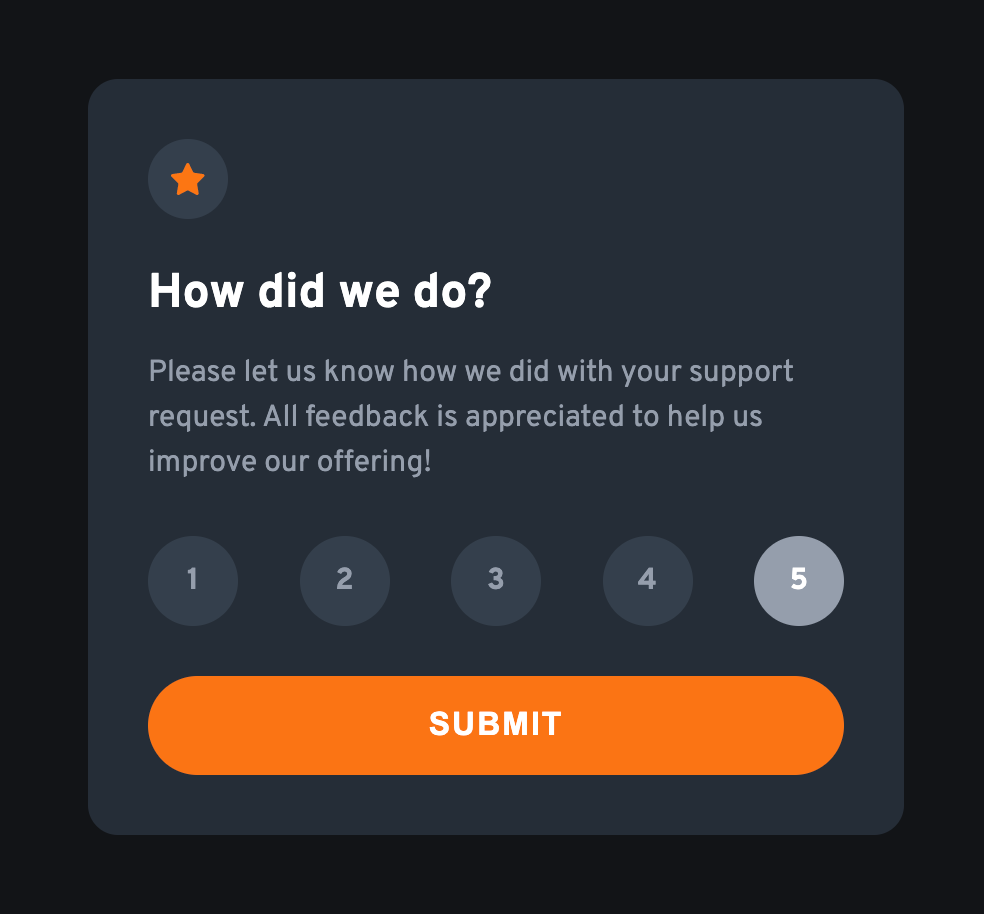
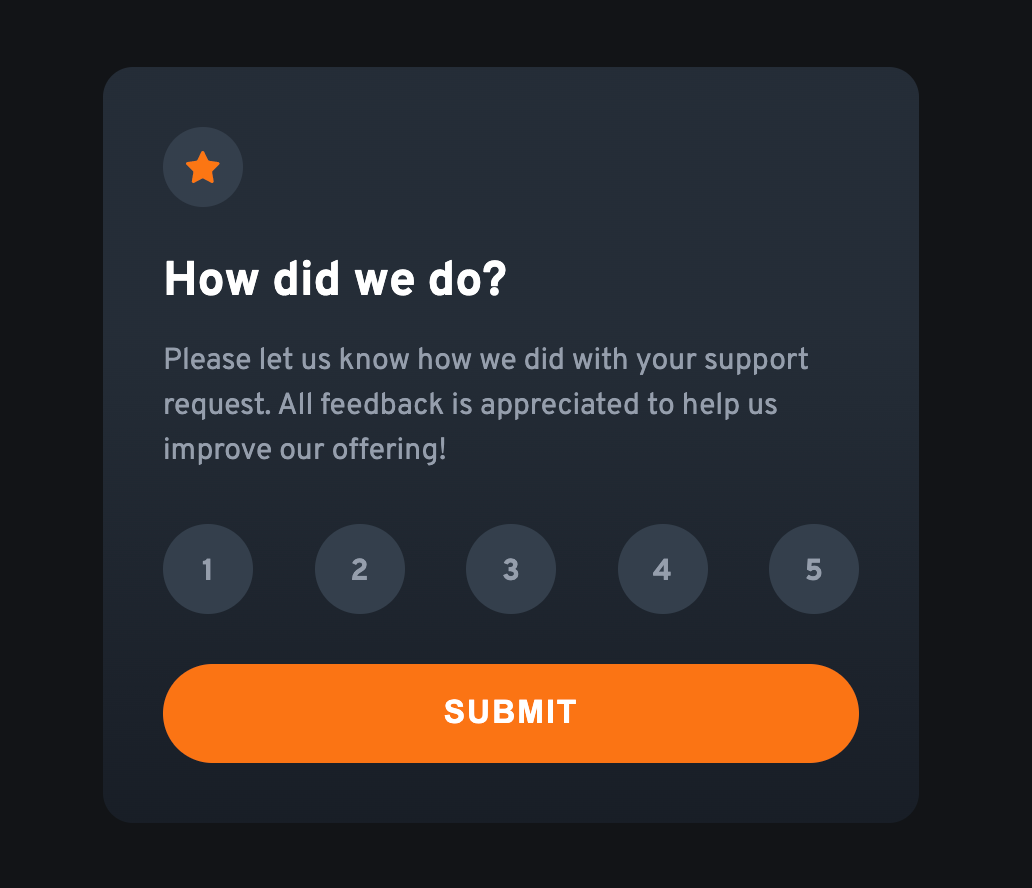
Updating component

diff --git a/styles/styles.css b/styles/styles.css
@@ -5,7 +5,6 @@
     --color-medium-grey: hsl(216, 12%, 54%);
     --color-dark-blue: hsl(213, 19%, 18%);
     --color-very-dark-blue: hsl(216, 12%, 8%);
-
 }
 
 @font-face {
@@ -26,13 +25,28 @@
         url('../fonts/overpass-700.woff') format('woff');
 }
 
+@keyframes fadeIn {
+    0% {
+        transform: scale(0.5);
+        opacity: 0.5;
+    }
+    100% {
+        transform: scale(1);
+        opacity: 1;
+    }
+}
+
 *,
 *::before,
 *::after {
     box-sizing: border-box;
 }
 
-body {
+.page {
+    display: flex;
+    flex-wrap: nowrap;
+    flex-direction: column;
+    min-height: 100vh;
     margin: 0;
     padding: 0;
     font-family: 'Overpass', sans-serif;
@@ -40,6 +54,20 @@ body {
     line-height: 1.5;
     color: var(--color-light-grey);
     background-color: var(--color-very-dark-blue);
+}
+
+.page__main {
+    display: flex;
+    flex-wrap: nowrap;
+    justify-content: center;
+    align-items: center;
+    flex-grow: 1;
+    padding: 15px;
+}
+
+.page__footer {
+    padding: 20px 15px;
+    text-align: center;
 }
 
 .visually-hidden {
@@ -59,24 +87,14 @@ body {
     display: none;
 }
 
-@keyframes fadeIn {
-    0% {
-        transform: scale(0.5);
-        opacity: 0.5;
-    }
-    100% {
-        transform: scale(1);
-        opacity: 1;
-    }
+.link {
+    color: var(--color-primary);
+    text-decoration: none;
 }
 
-.page {
-    display: flex;
-    flex-wrap: nowrap;
-    justify-content: center;
-    align-items: center;
-    min-height: 100vh;
-    margin: 15px;
+.link:hover,
+.link:focus {
+    color: var(--color-white);
 }
 
 .section {
@@ -86,6 +104,7 @@ body {
     margin: 0 auto;
     padding: 30px 20px;
     background-color: var(--color-dark-blue);
+    background-image: linear-gradient(180deg, var(--color-dark-blue) 35%, hsl(214deg 23% 12%) 100%);
     border-radius: 15px;
 }
 
@@ -195,10 +214,10 @@ body {
     padding-top: 185px;
     padding-bottom: 40px;
     text-align: center;
-    background-image: url("../images/illustration-thank-you.svg");
+    background-image: url("../images/illustration-thank-you.svg"), linear-gradient(180deg, var(--color-dark-blue) 35%, hsl(214deg 23% 12%) 100%);
     background-repeat: no-repeat;
-    background-position: 50% 30px;
-    background-size: 180px 120px;
+    background-position: 50% 30px, left top;
+    background-size: 180px 120px, 100% 100%;
     animation: fadeIn 300ms ease 100ms forwards;
 }
 

diff --git a/index.html b/index.html
@@ -7,8 +7,8 @@
 	<link rel="stylesheet" href="./styles/styles.css">
 	<title>Frontend Mentor | Interactive rating component</title>
 </head>
-<body>
-	<main class="page">
+<body class="page">
+	<main class="page__main">
 		<h1 class="visually-hidden">Interactive rating component</h1>
 		<form class="form section" action="#" method="post" id="rating-form">
 			<h2 class="form__title section__title">How did we do?</h2>
@@ -43,6 +43,10 @@
 			<p class="form-result__text section__text">We appreciate you taking the time to give a rating. If you ever need more support, don’t hesitate to get in touch!</p>
 		</section>
 	</main>
+	<footer class="page__footer">
+		Challenge by <a class="link" href="https://www.frontendmentor.io?ref=challenge" target="_blank">Frontend Mentor</a>.
+		Coded by <a class="link" href="https://www.frontendmentor.io/profile/annaindistress"  target="_blank">annaindistress</a>.
+	</footer>
 	<script src="scripts/script.js"></script>
 </body>
 </html>
